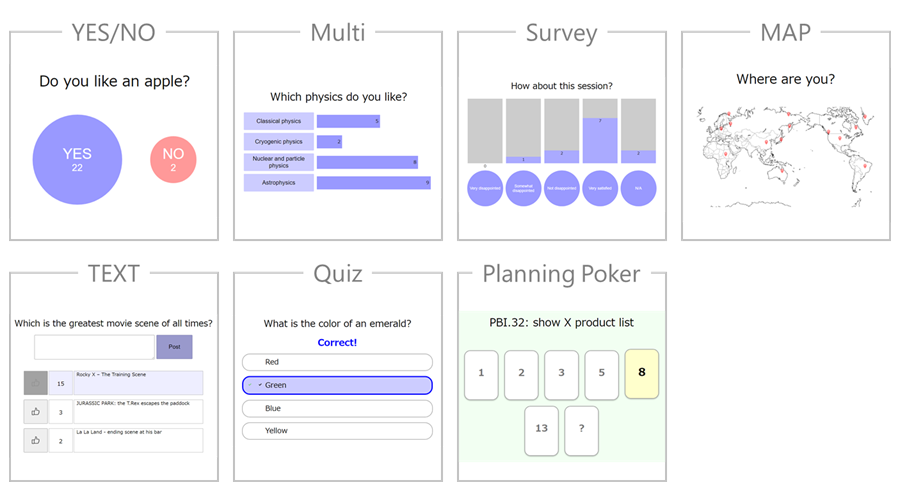
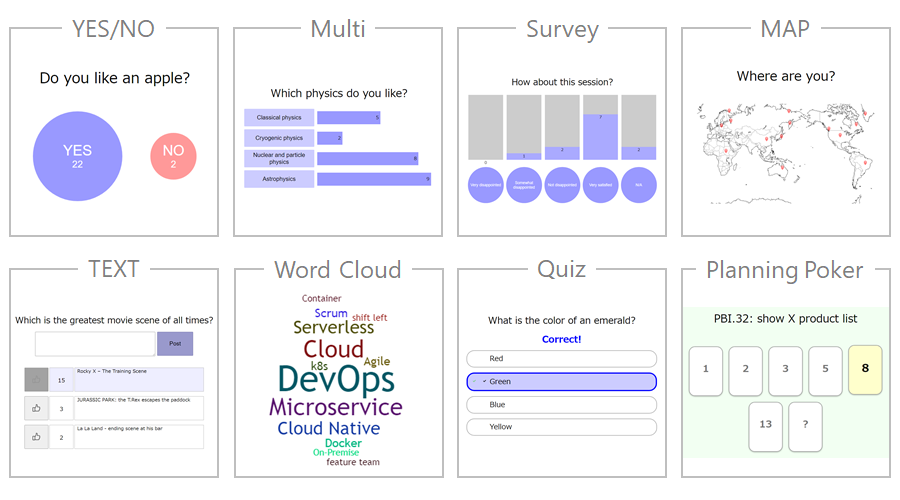
8th poll: WordCloud

diff --git a/public/stylesheets/polls/word.css b/public/stylesheets/polls/word.css
@@ -1,0 +1,50 @@
+.word_input_area{
+    display: inline-block;
+    margin:0px auto 0px auto;
+}
+
+.word_input{
+    height:36px;
+    width:250px;
+    font-size: 24px;
+    margin-right: 5px;
+    padding-left:20px;
+}
+
+.word_button{
+    height:40px;
+    font-size: 24px;
+    padding:0px 20px;
+    background-color: #CCF;
+    border: 1px solid #669;
+}
+
+.word_canvas{
+    margin: 50px auto;
+    border:1px solid #CCC;
+}
+
+.word_canvas_pc{
+    width:700px;
+    height:400px;
+}
+
+.word_canvas_sp{
+    width:350px;
+    height:200px;
+}
+
+
+@media screen and (max-width:700px){
+    .word_input{
+        width:200px;
+        font-size: 20px;
+        margin-right: 5px;
+        padding-left:20px;
+    }
+    
+    .word_button{
+        height:40px;
+        font-size: 20px;
+    }
+}

diff --git a/routes/poll.js b/routes/poll.js
@@ -77,6 +77,9 @@ module.exports = function(io) {
                 case 'TEXT':
                     res.render('poll/text',setting);
                 break;
+                case 'WORD':
+                    res.render('poll/wordcloud',setting);
+                break;
                 case 'QUIZ':
                     res.render('poll/quiz',setting);
                 break;

diff --git a/data/ballotBox.js b/data/ballotBox.js
@@ -148,7 +148,7 @@ class BallotBox {
                 returnBox["COUNTUP"].push(result[key])
             }
 
-        }else if(pollResult.TYPE === "TEXT"){
+        }else if(pollResult.TYPE === "TEXT" || pollResult.TYPE === "WORD"){
             returnBox["COUNTUP"]={}
             let result = pollResult["RESULT"]
             for(let key in result){

diff --git a/app.js b/app.js
@@ -78,7 +78,7 @@ app.use(function(req, res, next) {
 
 // error handler
 app.use(function(err, req, res, next) {
-  // console.log(err)
+  //console.log(err)
   // set locals, only providing error in development
   res.locals.message = err.message;
   res.locals.error = req.app.get('env') === 'development' ? err : {};
